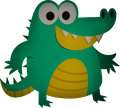
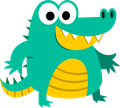
Creación de animación para menú bienvenida

diff --git a/menu.py b/menu.py
@@ -1,4 +1,5 @@
 import pygame
+from pygame import time
 from constantes import *
 import sys
 from texto import Texto #importo clase banner
@@ -7,33 +8,66 @@ class Menu(pygame.sprite.Sprite):
     def __init__(self):
         pygame.sprite.Sprite.__init__(self)
 
-        self.image=pygame.Surface([ancho_ventana,alto_ventana]) #creo superficie
-        self.image.fill(color_fondo) #color de fondo
+        self.image=pygame.image.load(os.path.join(dirImágenes,'fondo_menu.jpg')) #creo superficie
+        self.imagen_piso=pygame.image.load(os.path.join(dirImágenes,'piso_menu.jpg'))
+        self.imágenes_jugador=(
+            pygame.image.load(os.path.join(dirImágenes,'arriba_izq.png')),
+            pygame.image.load(os.path.join(dirImágenes,'jugador.png')),)
+        self.imágenes_araña=(
+            pygame.image.load(os.path.join(dirImágenes,'araña_abajo.png')),
+            pygame.image.load(os.path.join(dirImágenes,'araña_arriba.png')),)
+        self.imagen_jugador=self.imágenes_jugador[0]
+        self.imagen_araña=self.imágenes_araña[0]
         self.rect=self.image.get_rect()
+        self.rect_piso=self.imagen_piso.get_rect()
+        self.rect_jugador=self.imagen_jugador.get_rect()
+        self.rect_araña=self.imagen_araña.get_rect()
         self.rect.y=0
         self.rect.x=0
+        self.rect_piso.y=alto_ventana-147
+        self.rect_piso.x=0
+        self.rect_jugador.y=alto_ventana-alto_jugador
+        self.rect_jugador.x=ancho_ventana//2-ancho_jugador//2
+        self.rect_araña.y=alto_ventana-147
+        self.rect_araña.x=ancho_ventana//2+ancho_ventana//4
         self.texto=Texto()
 
     def dibujar(self,superficie,puntaje):
         superficie.blit(self.image,self.rect)
-        self.texto.mostrar_texto('Ayuda a Cody a limpiar su casa de las arañas!',33,color_banner,ancho_ventana//2,10,superficie,None)
-        self.texto.mostrar_texto('Con la flecha arriba inicia el juego',33,color_banner,ancho_ventana//2,60,superficie,None)
-        self.texto.mostrar_texto('Con las flechas laterales mueves a Cody',33,color_banner,ancho_ventana//2,110,superficie,None)
-        self.texto.mostrar_texto('El puntaje a superar es: {}'.format(puntaje),33,color_banner,ancho_ventana//2,160,superficie,None)
-        self.texto.mostrar_texto('Presiona cualquier tecla para continuar',33,color_banner,ancho_ventana//2,210,superficie,None)
+        superficie.blit(self.imagen_piso,self.rect_piso)
+        self.texto.mostrar_texto('Ayuda a Cody a limpiar su casa de las arañas!',33,color_techo,ancho_ventana//2,10,superficie,None)
+        self.texto.mostrar_texto('Con la flecha arriba inicia el juego',33,color_techo,ancho_ventana//2,60,superficie,None)
+        self.texto.mostrar_texto('Con las flechas laterales mueves a Cody',33,color_techo,ancho_ventana//2,110,superficie,None)
+        self.texto.mostrar_texto('El puntaje a superar es: {}'.format(puntaje),33,color_techo,ancho_ventana//2,160,superficie,None)
+        self.texto.mostrar_texto('Presiona cualquier tecla para continuar',33,color_techo,ancho_ventana//2,210,superficie,None)
         pygame.display.flip()
-        self.esperar()
+        self.animación(self.imágenes_jugador,self.imágenes_araña,self.rect_jugador,self.rect_araña,superficie)
 
     def esperar(self):
         esperar=True
         reloj=pygame.time.Clock() #creo reloj
+        reloj.tick(60)
+        for evento in pygame.event.get():
+            if evento.type == pygame.QUIT:
+                esperar=False
+                self.ejecutando=False
+                pygame.quit()
+                sys.exit()
+            if evento.type==pygame.KEYUP:
+                esperar=False
+        return esperar
+
+    def animación(self,imágenes_1,imágenes_2,rectángulo_1,rectángulo_2,superficie):
+        esperar=True
         while esperar:
-            reloj.tick(60)
-            for evento in pygame.event.get():
-                if evento.type == pygame.QUIT:
-                    esperar=False
-                    self.ejecutando=False
-                    pygame.quit()
-                    sys.exit()
-                if evento.type==pygame.KEYUP:
-                    esperar=False
+            superficie.blit(self.imagen_piso,self.rect_piso)
+            superficie.blit(imágenes_1[0],rectángulo_1)        #dibujo la imagen
+            superficie.blit(imágenes_2[0],rectángulo_2)        #dibujo la imagen
+            time.wait(300)
+            pygame.display.flip()
+            superficie.blit(self.imagen_piso,self.rect_piso)
+            superficie.blit(imágenes_1[1],rectángulo_1)        #dibujo la imagen
+            superficie.blit(imágenes_2[1],rectángulo_2)        #dibujo la imagen
+            time.wait(300)
+            pygame.display.flip()
+            esperar=self.esperar()

diff --git a/jugador.py b/jugador.py
@@ -9,7 +9,7 @@ class Jugador(pygame.sprite.Sprite): #defino la clase jugador
         self.imágenes=(
             pygame.image.load(os.path.join(dirImágenes,'arriba_der.png')),
             pygame.image.load(os.path.join(dirImágenes,'arriba_izq.png')),
-            pygame.image.load(os.path.join(dirImágenes,'jugador.png')),
+            pygame.image.load(os.path.join(dirImágenes,'perdedor.png')),
         )
 
         self.image=self.imágenes[0]#creo superficie

diff --git a/constantes.py b/constantes.py
@@ -6,7 +6,7 @@ alto_piso=25
 alto_techo=5
 alto_banner=30
 ancho_jugador=120
-alto_jugador=120
+alto_jugador=108
 ancho_pelota=20
 alto_pelota=20
 ancho_bloque=30
